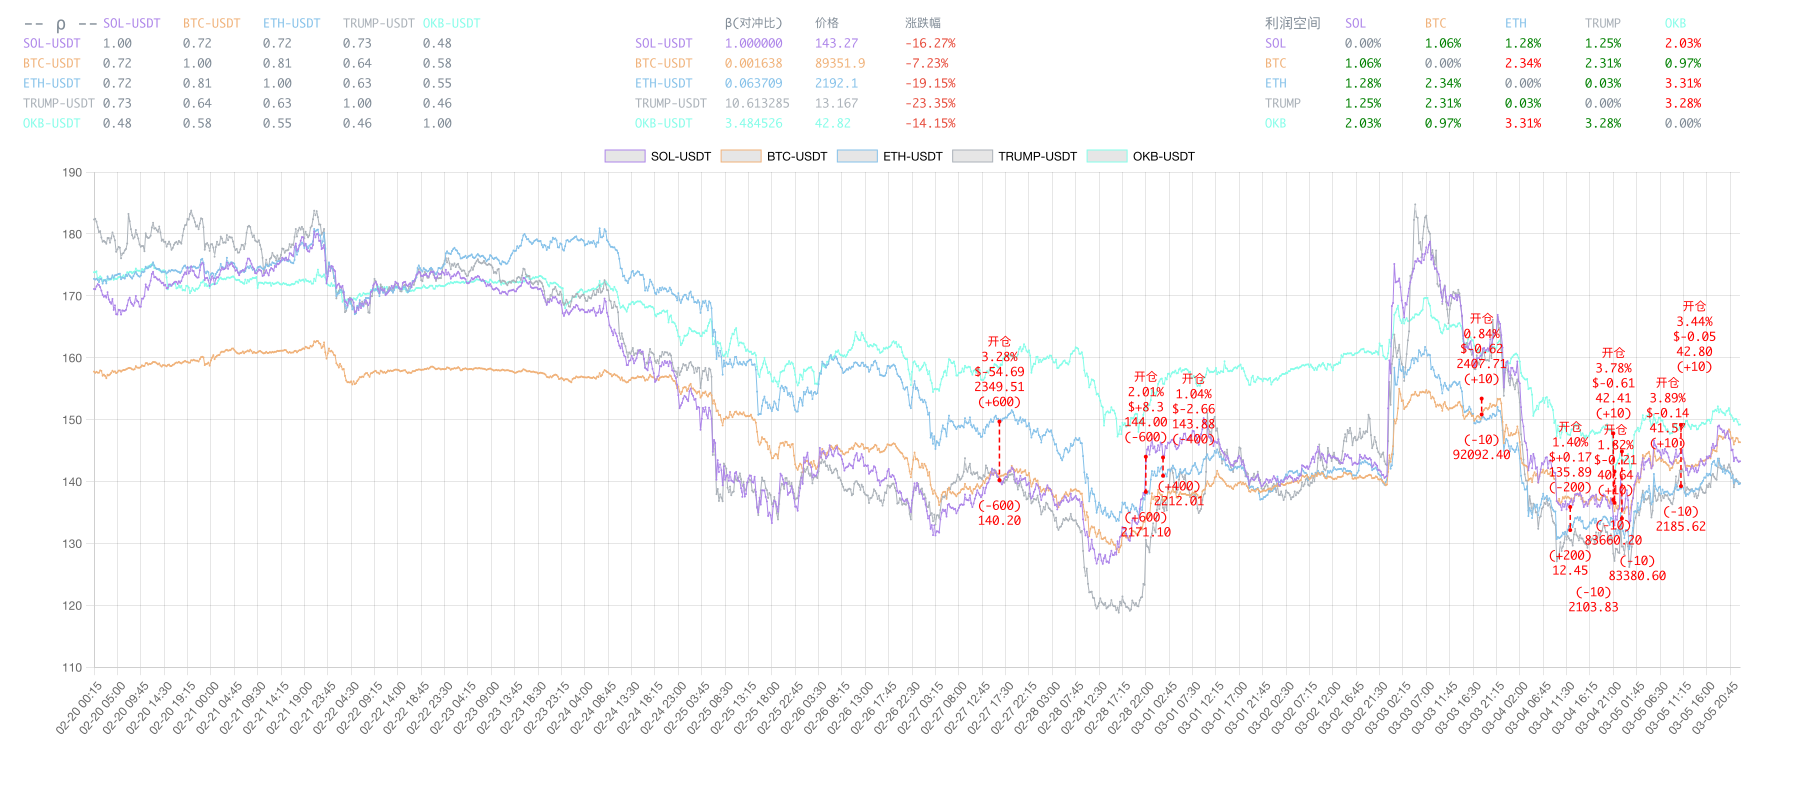
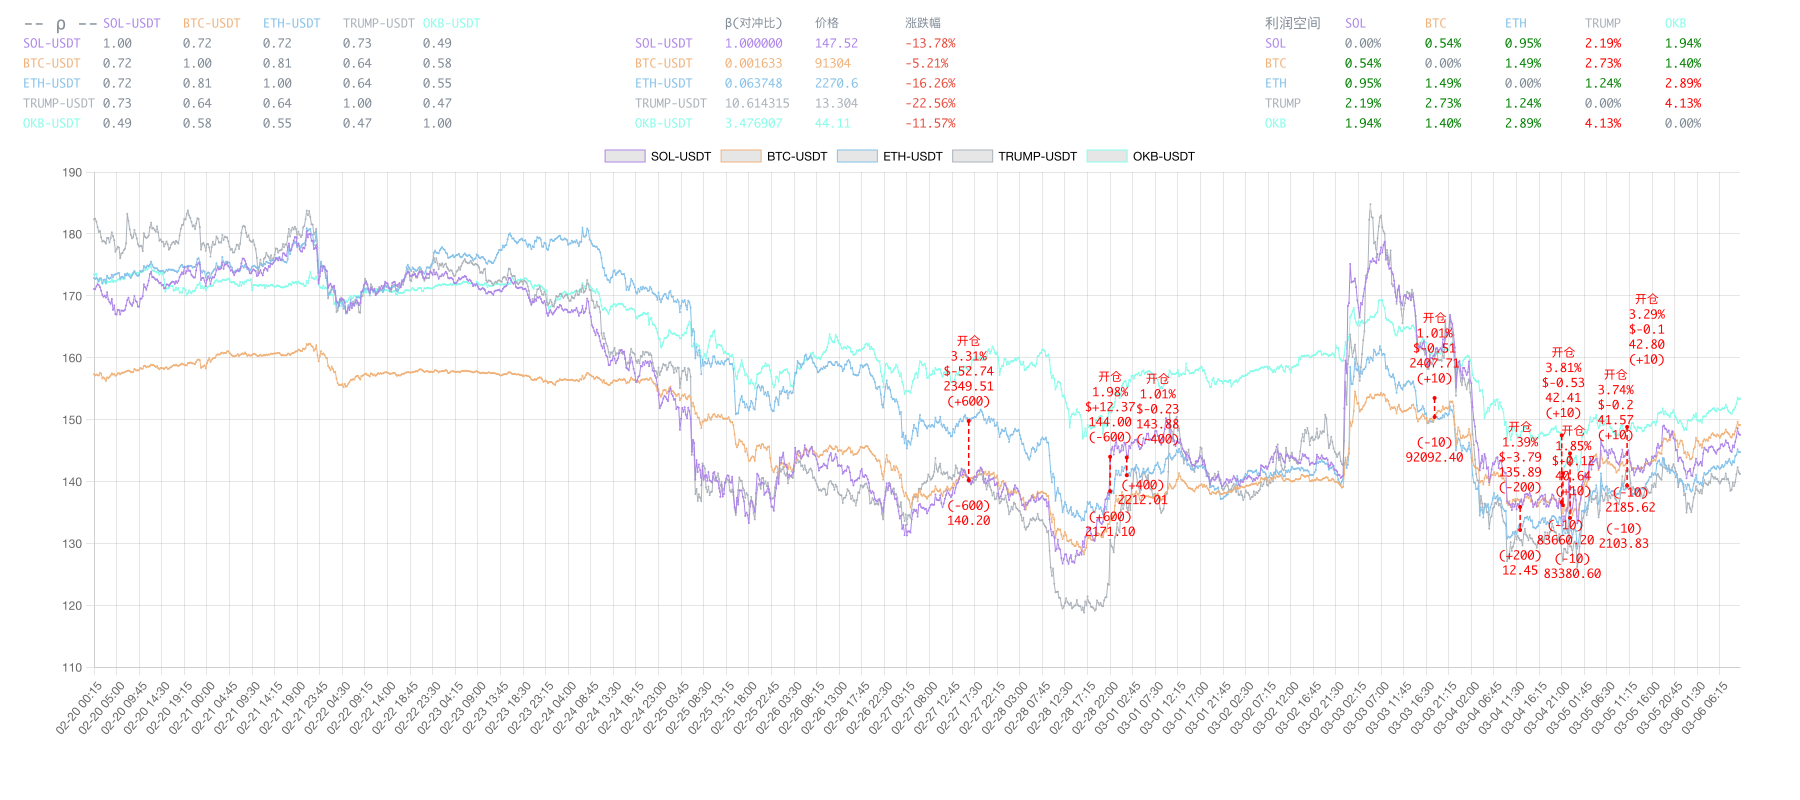
opt:优化平仓条件

diff --git a/src/TradeEngine/processors/HedgeProcessor.js b/src/TradeEngine/processors/HedgeProcessor.js
@@ -103,31 +103,17 @@ export class HedgeProcessor extends AbstractProcessor{
     const transactions = this._getTransactions({side:'opening'});
 
     //遍历所有未平仓的头寸，根据当前价格和历史beta计算是否关闭
-    transactions.forEach(({ tradeId, orders, profit, closed, side: transaction_side }) => {
+    transactions.forEach(({ tradeId, orders }) => {
       const close_gate = this._close_gate;
       /**
-       * todo
        * 关于平仓条件 betaMap 这里需要考虑一个问题
        * 如果按照开仓时的对冲比平仓，可以确保利润，可能等的时间更长，也可能牺牲超额利润
        * 如果照当前实时的对冲比平仓，可以快速平仓，可能牺牲利润，也可能获得超额利润
-       * 
        *  */
       /* 这里为按开仓对冲比平仓，确保利润 */
-      const betaMap = Object.fromEntries(orders.map(({ instId, beta }) => [instId, beta]));
+      const betaMap_fixed = Object.fromEntries(orders.map(({ instId, beta }) => [instId, beta]));
       /* 这里为按照实时对冲比平仓，只要不亏利润（!!!由于滑点的存在，可能仍然会亏滑点） */
-      // const betaMap = this.engine._beta_map;
-      
-      
-      /**
-       * 
-       * 
-       * TODO
-       * 最终还是需要两个结合，优先能平仓，且不亏钱
-       * 不论是哪个 betaMap（现价也好，开仓价也好） 如果能平且没亏就平
-       * 
-       * 
-       * 
-       *  */
+      const betaMap_realtime = this.engine._beta_map;
       
       const [instId1, instId2] = this.asset_names;
       const [px1, px2] = this.asset_names.map(assetId=>this.engine.getRealtimePrice(assetId));
@@ -135,17 +121,28 @@ export class HedgeProcessor extends AbstractProcessor{
       if(!px1 || !px2){
         return false;
       }
-  
-      // 计算实时标准化价格
-      const spx1 = px1 * betaMap[instId1][0] + betaMap[instId1][1];
-      const spx2 = px2 * betaMap[instId2][0] + betaMap[instId2][1];
-  
-      // 计算价差比率
-      const diff_rate = TradeEngine._calcPriceGapProfit(spx1, spx2, (spx2+spx2)/2);
-      // if(tradeId == 'aa1fb0df'){
-      //   debugger
-      // }
-      if(diff_rate <= close_gate){
+
+      const n = this.engine._normalizePrice;
+      // 固定标准化价格
+      const spx1_fixed = n(px1, betaMap_fixed[instId1]);
+      const spx2_fixed = n(px2, betaMap_fixed[instId2]);
+      // 固定价差比率
+      const diff_rate_fixed = TradeEngine._calcPriceGapProfit(spx1_fixed, spx2_fixed, (spx1_fixed+spx2_fixed)/2);
+
+      // 动态标准化价格
+      const spx1_realtime = n(px1, betaMap_realtime[instId1]);
+      const spx2_realtime = n(px2, betaMap_realtime[instId2]);
+      // 动态价差比率
+      const diff_rate_realtime = TradeEngine._calcPriceGapProfit(spx1_realtime, spx2_realtime, (spx1_realtime+spx2_realtime)/2);
+
+      /**
+       * 最终还是需要两个结合，优先能平仓，且不亏钱
+       * 不论是哪个 betaMap（现价也好，开仓价也好） 如果能平且没亏就平
+       * 两种价差比率有一种达到门限，即平仓，确保尽快平仓避免资金占用
+       * 不必担心开仓即平仓，因为一般来说开仓后的β不会发生大的变化
+       * 而长时间后，尽管β发生变化，但我们的平仓目的不再是盈利而是避免资金占用，因此尽快平仓
+       *  */ 
+      if(diff_rate_fixed <= close_gate || diff_rate_realtime <= close_gate){
         // 平仓
         const profit = this.engine._calcRealtimeProfit(orders);
         if(profit>0){
@@ -179,7 +176,7 @@ export class HedgeProcessor extends AbstractProcessor{
     const spx2 = px2 * betaMap[instId2][0] + betaMap[instId2][1];
 
     // 计算价差比率
-    const diff_rate = TradeEngine._calcPriceGapProfit(spx1, spx2, (spx2+spx2)/2);
+    const diff_rate = TradeEngine._calcPriceGapProfit(spx1, spx2, (spx1+spx2)/2);
     
     // 判断是否超过门限
     if(!open_gate) return;

diff --git a/src/TradeEngine/TradeEngine.js b/src/TradeEngine/TradeEngine.js
@@ -73,10 +73,17 @@ export class TradeEngine{
     }); 
   }
 
+  /**
+   * 获取主资产
+   * @returns 
+   */
   static getMainAssetLabels(){
     return this.getMainAsset().ts.map(it=>formatTimestamp(it, this._bar_type))
   }
 
+  static _normalizePrice(price, beta){
+    return price*beta[0]+beta[1]
+  }
   /**
    * 获取实时利润
    */

diff --git a/README.md b/README.md
@@ -53,6 +53,7 @@ export {
 - [ ] 【功能】另外，需要写个订单详情处理器，内部做单位统一适配。
 - [ ] 【功能】绘图引擎需要提供 web 版
 - [ ] 【功能】所有本地的 local_variable 进缓存或者入库
+- [ ] 【编码规范】为了省事，代码中大量引用交易引擎私有变量(例如: TradeEngine._beta_map)需要规范, 实时数据尽量从tick()函数中读取确保数据安全。
 
 
 
